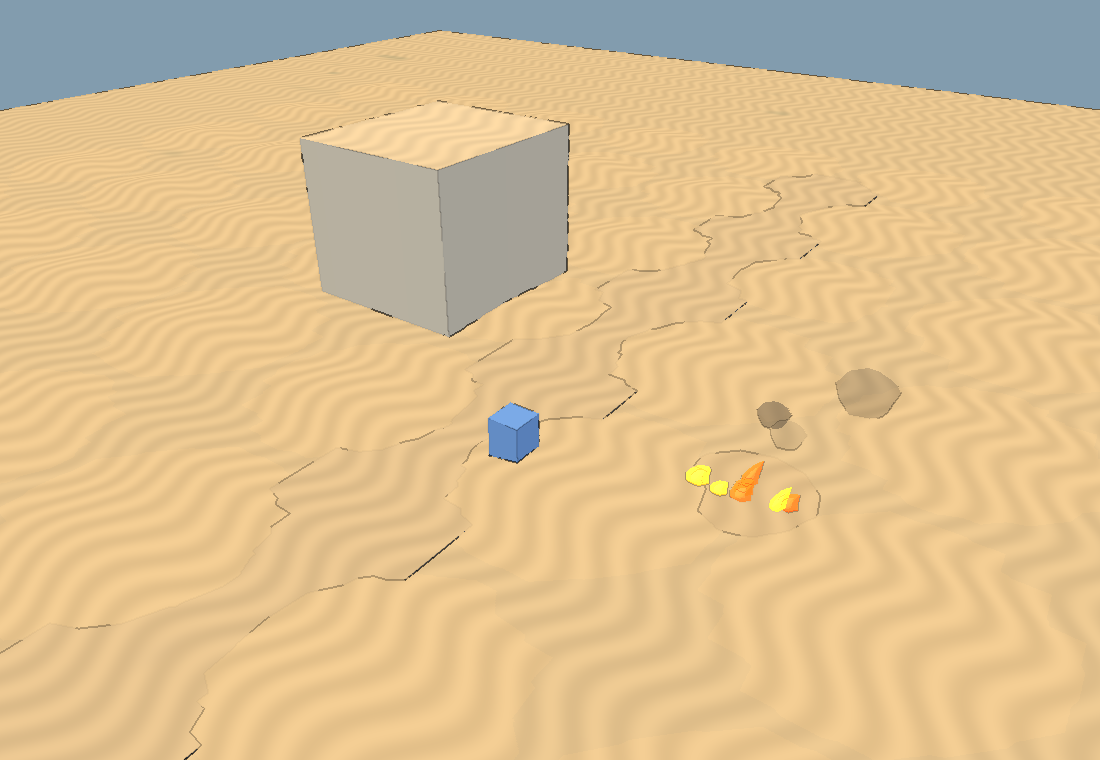
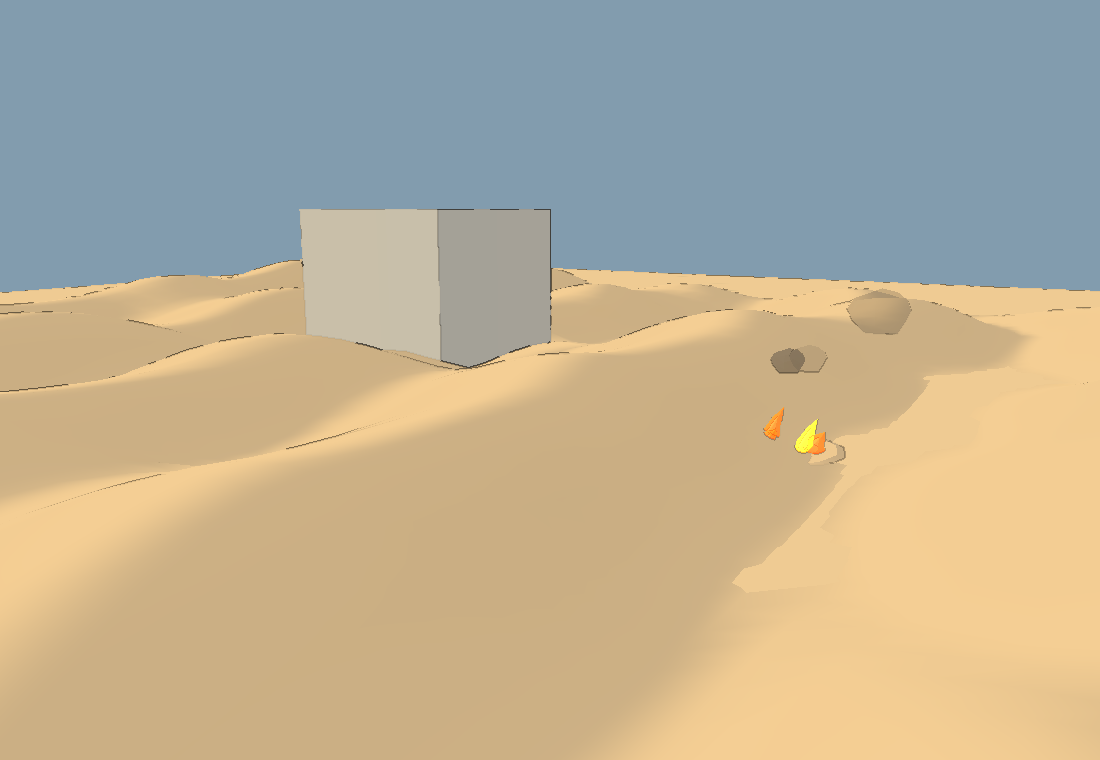
Shape deterministic sand dunes with progressive growth

diff --git a/public/js/weatherDeposits.js b/public/js/weatherDeposits.js
@@ -1,17 +1,20 @@
 import * as THREE from 'three';
 import { envMat, disposeTree } from './toon.js';
 import { weatherSurfaceCover, WEATHER_SURFACE } from './weatherState.js';
+import { mulberry32 } from './rng.js';
 
 // A camera-local mesh samples fixed world coordinates: moving the camera cannot reseed dunes.
 export function makeWeatherDeposits(scene, terrain, { lowPower = false, surface } = {}) {
   const n = lowPower ? 64 : 96, step = 3, half = n * step / 2;
   const geo = new THREE.PlaneGeometry(n * step, n * step, n, n);
   geo.rotateX(-Math.PI / 2);
-  const mesh = new THREE.Mesh(geo, envMat(0xc7a365, { rim: 0, wash: .15, land: true }));
+  const mesh = new THREE.Mesh(geo, envMat(0xc7a365, { rim: 0, wash: .15, land: true, bands: 4 }));
   mesh.receiveShadow = true;
   mesh.visible = false;
   scene.add(mesh);
   const positions = geo.attributes.position, bases = new Float32Array(positions.count), factors = new Float32Array(positions.count);
+  const cells = new Int32Array(positions.count), dunes = [], spacing = 36;
+  let columns = 0;
   let cx = NaN, cz = NaN, wait = 0, previous = -1;
   const heightAt = (x, z) => terrain.heightAt(x, z);
   return {
@@ -29,8 +32,20 @@ export function makeWeatherDeposits(scene, terrain, { lowPower = false, surface 
       if (moved) {
         cx = x; cz = z;
         mesh.position.set(x, 0, z);
+        const minCellX = Math.floor((x - half) / spacing) - 1, minCellZ = Math.floor((z - half) / spacing) - 1;
+        columns = Math.floor((x + half) / spacing) - minCellX + 2;
+        const rows = Math.floor((z + half) / spacing) - minCellZ + 2;
+        dunes.length = 0;
+        for (let iz = 0; iz < rows; iz++) for (let ix = 0; ix < columns; ix++) {
+          const cellX = minCellX + ix, cellZ = minCellZ + iz;
+          const rnd = mulberry32(Math.imul(cellX, 73856093) ^ Math.imul(cellZ, 19349663));
+          const yaw = (rnd() - .5) * .8;
+          dunes.push({ x: (cellX + .3 + rnd() * .4) * spacing, z: (cellZ + .3 + rnd() * .4) * spacing,
+            threshold: .02 + rnd() * .65, height: .75 + rnd() * .5, cos: Math.cos(yaw), sin: Math.sin(yaw) });
+        }
         for (let i = 0; i < positions.count; i++) {
           const px = x + positions.getX(i), pz = z + positions.getZ(i), h = heightAt(px, pz);
+          cells[i] = (Math.floor(pz / spacing) - minCellZ) * columns + Math.floor(px / spacing) - minCellX;
           bases[i] = Number.isFinite(h) ? h : 0;
           const grade = Math.max(Math.abs(heightAt(px + step, pz) - h), Math.abs(heightAt(px, pz + step) - h)) / step;
           const inside = px > terrain.minX && px < terrain.maxX && pz > terrain.minZ && pz < terrain.maxZ;
@@ -39,18 +54,27 @@ export function makeWeatherDeposits(scene, terrain, { lowPower = false, surface 
           factors[i] = inside && dry && exposed && Number.isFinite(grade) ? Math.max(0, 1 - grade / WEATHER_SURFACE.flatGrade) : 0;
         }
       }
+      for (const dune of dunes) {
+        const growth = Math.max(0, (amount - dune.threshold) / (1 - dune.threshold));
+        dune.rx = 3.5 + growth * 20.5; dune.rz = 4 + growth * 28;
+        dune.rise = growth * (5 + growth * 3) * dune.height;
+      }
       for (let i = 0; i < positions.count; i++) {
         const lx = positions.getX(i), lz = positions.getZ(i), px = cx + lx, pz = cz + lz;
-        const cellX = Math.floor(px / 24), cellZ = Math.floor(pz / 24);
-        const seed = Math.sin(cellX * 127.1 + cellZ * 311.7) * 43758.5453;
-        const threshold = (seed - Math.floor(seed)) * .8;
-        const growth = Math.max(0, (amount - threshold) / (1 - threshold));
-        const dx = (px / 24 - cellX - .5) * 2, dz = (pz / 24 - cellZ - .5) * 2;
-        const radius = .15 + growth * .85;
-        const mound = Math.max(0, 1 - (dx * dx + dz * dz) / (radius * radius));
+        let rise = 0;
+        // Overlapping world-seeded footprints merge without seams at cell boundaries.
+        for (let dz = -1; dz <= 1; dz++) for (let dx = -1; dx <= 1; dx++) {
+          const dune = dunes[cells[i] + dz * columns + dx];
+          if (dune.rise <= 0) continue;
+          const ox = px - dune.x, oz = pz - dune.z;
+          const u = (ox * dune.cos + oz * dune.sin) / dune.rx, v = (-ox * dune.sin + oz * dune.cos) / dune.rz;
+          const windward = u < 0 ? 1.15 : .8;
+          const mound = Math.max(0, 1 - u * u / (windward * windward) - v * v);
+          rise += dune.rise * mound * mound;
+        }
         const edge = Math.min(1, (half - Math.max(Math.abs(lx), Math.abs(lz))) / 18);
         // The edge sits below the surface, avoiding a rectangular overlay boundary.
-        positions.setY(i, bases[i] - .035 + 1.6 * growth * mound * mound * factors[i] * Math.max(0, edge));
+        positions.setY(i, bases[i] - .035 + rise * factors[i] * Math.max(0, edge));
       }
       positions.needsUpdate = true;
       geo.computeVertexNormals();

diff --git a/out/weather_review/index.html b/out/weather_review/index.html
@@ -1,1 +1,1 @@
-<!doctype html><html lang="en"><meta charset="utf-8"><title>Weather surface review</title><style>body{margin:24px;background:#182027;color:#e8eef2;font:16px system-ui}main{display:grid;grid-template-columns:repeat(2,minmax(0,1fr));gap:20px}figure{margin:0}img{width:100%}figcaption{padding:8px;text-transform:capitalize}</style><h1>Weather surface review</h1><main><figure><img src="dry.png"><figcaption>dry</figcaption></figure><figure><img src="puddles.png"><figcaption>puddles</figcaption></figure><figure><img src="rain.png"><figcaption>rain</figcaption></figure><figure><img src="draining.png"><figcaption>draining</figcaption></figure><figure><img src="snow.png"><figcaption>snow</figcaption></figure><figure><img src="sand.png"><figcaption>sand</figcaption></figure><figure><img src="lightning.png"><figcaption>lightning</figcaption></figure></main></html>
+<!doctype html><html lang="en"><meta charset="utf-8"><title>Weather surface review</title><style>body{margin:24px;background:#182027;color:#e8eef2;font:16px system-ui}main{display:grid;grid-template-columns:repeat(2,minmax(0,1fr));gap:20px}figure{margin:0}img{width:100%}figcaption{padding:8px;text-transform:capitalize}</style><h1>Weather surface review</h1><main><figure><img src="dry.png"><figcaption>dry</figcaption></figure><figure><img src="puddles.png"><figcaption>puddles</figcaption></figure><figure><img src="rain.png"><figcaption>rain</figcaption></figure><figure><img src="draining.png"><figcaption>draining</figcaption></figure><figure><img src="snow.png"><figcaption>snow</figcaption></figure><figure><img src="sand_early.png"><figcaption>sand_early</figcaption></figure><figure><img src="sand_growing.png"><figcaption>sand_growing</figcaption></figure><figure><img src="sand.png"><figcaption>sand</figcaption></figure><figure><img src="lightning.png"><figcaption>lightning</figcaption></figure></main></html>

diff --git a/public/js/weatherMaterial.js b/public/js/weatherMaterial.js
@@ -130,8 +130,7 @@ export const WEATHER_MATERIAL_COLOR = /* glsl */`
   float rippleDistance = abs(length(fract(rippleUv) - 0.5) - rippleAge * 0.6);
   float ripple = (1.0 - smoothstep(0.01, 0.03, rippleDistance)) * (1.0 - rippleAge) * step(0.65, rippleSeed);
   diffuseColor.rgb += wet * (0.05 + ripple * 0.035);
-  float ridge = 0.92 + 0.08 * sin(vCelWP.x * 2.0 + sin(vCelWP.z * 0.5) * 3.0);
-  diffuseColor.rgb = mix(diffuseColor.rgb, vec3(0.57, 0.39, 0.19) * ridge, sand * 0.93);
+  diffuseColor.rgb = mix(diffuseColor.rgb, vec3(0.57, 0.39, 0.19), sand * 0.93);
   diffuseColor.rgb = mix(diffuseColor.rgb, vec3(0.82, 0.89, 0.95), snow * 0.97);
   diffuseColor.rgb *= 1.0 - weatherScorch(vCelWP) * 0.92;
 }
